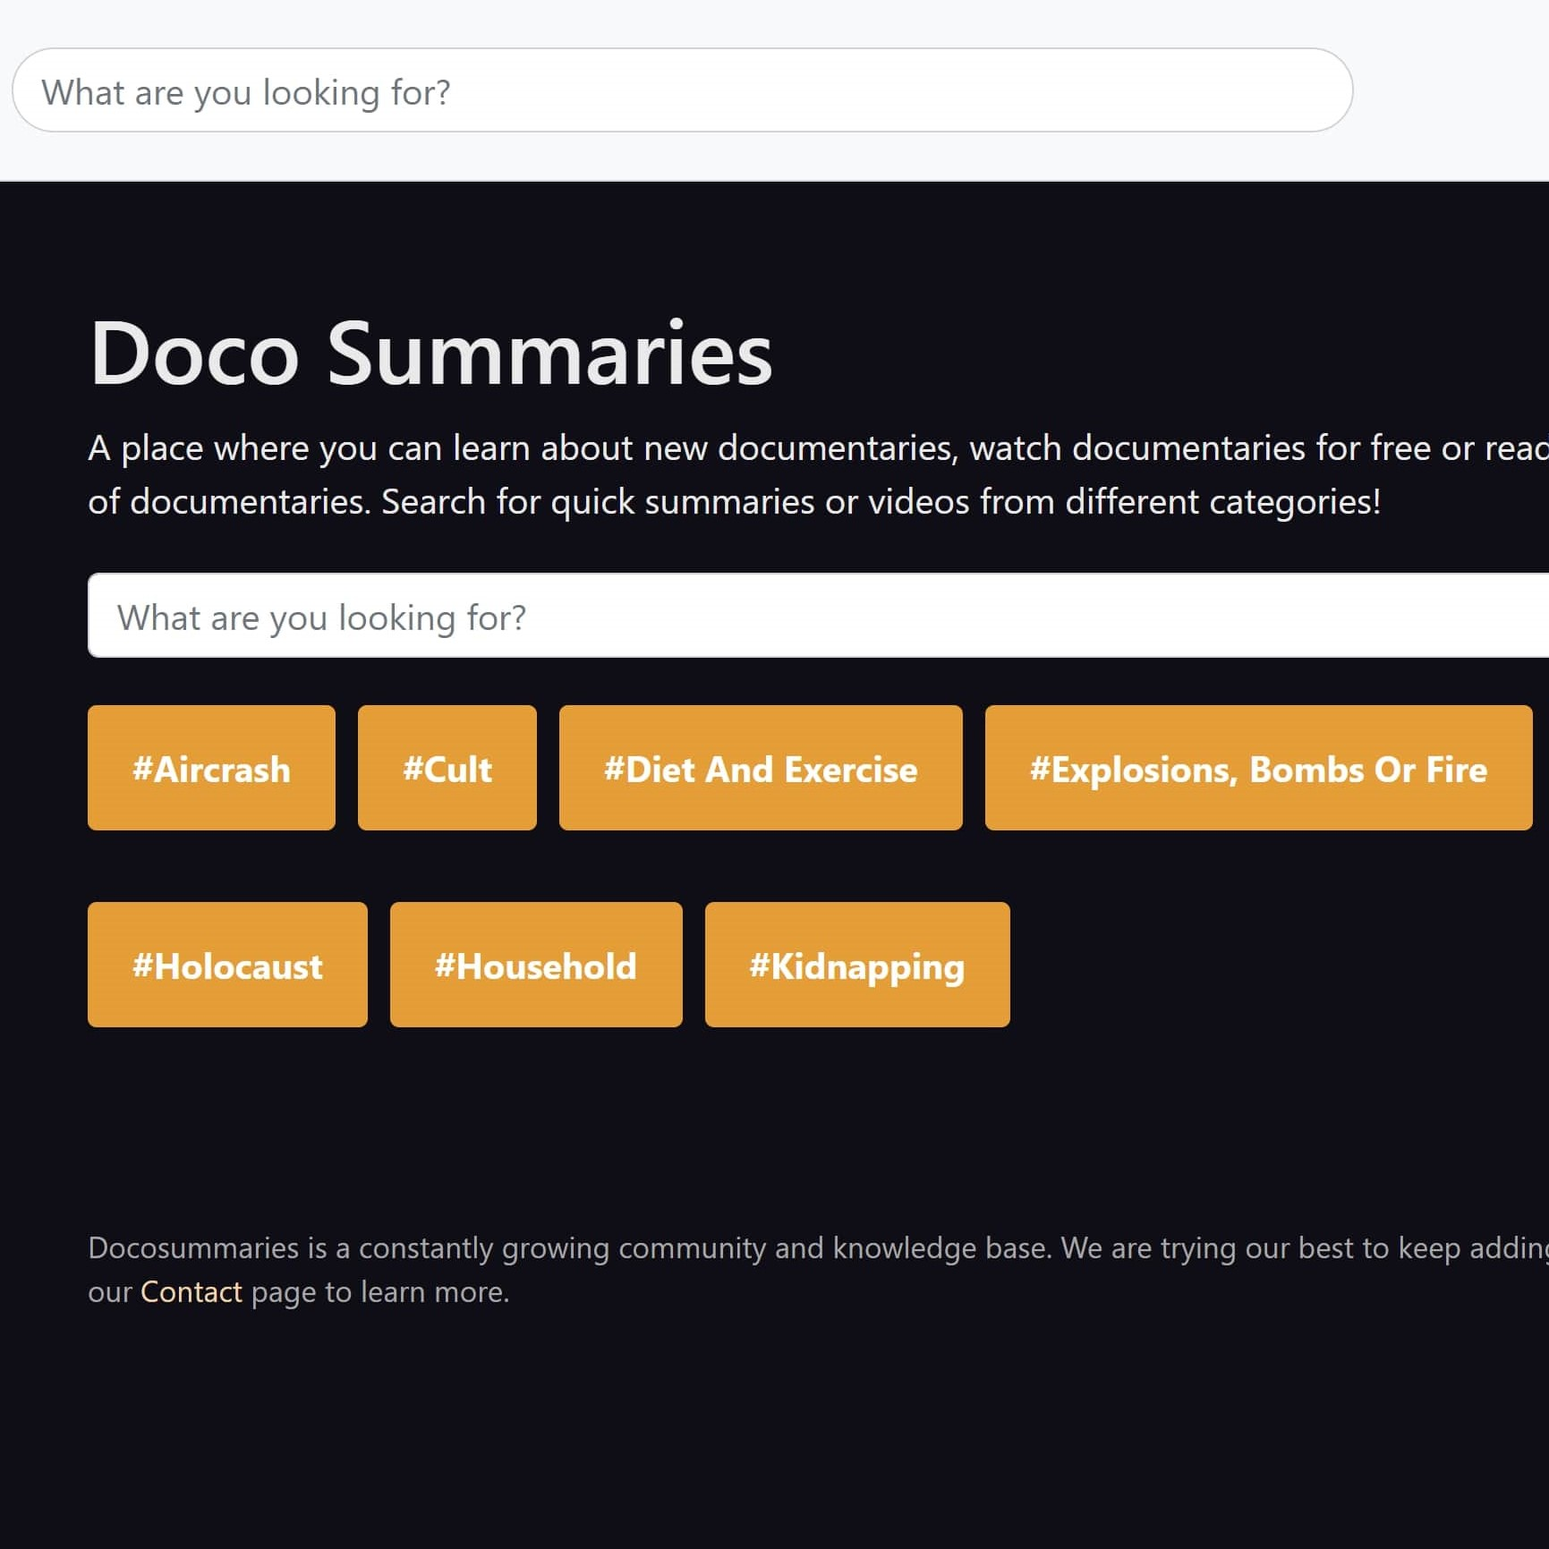
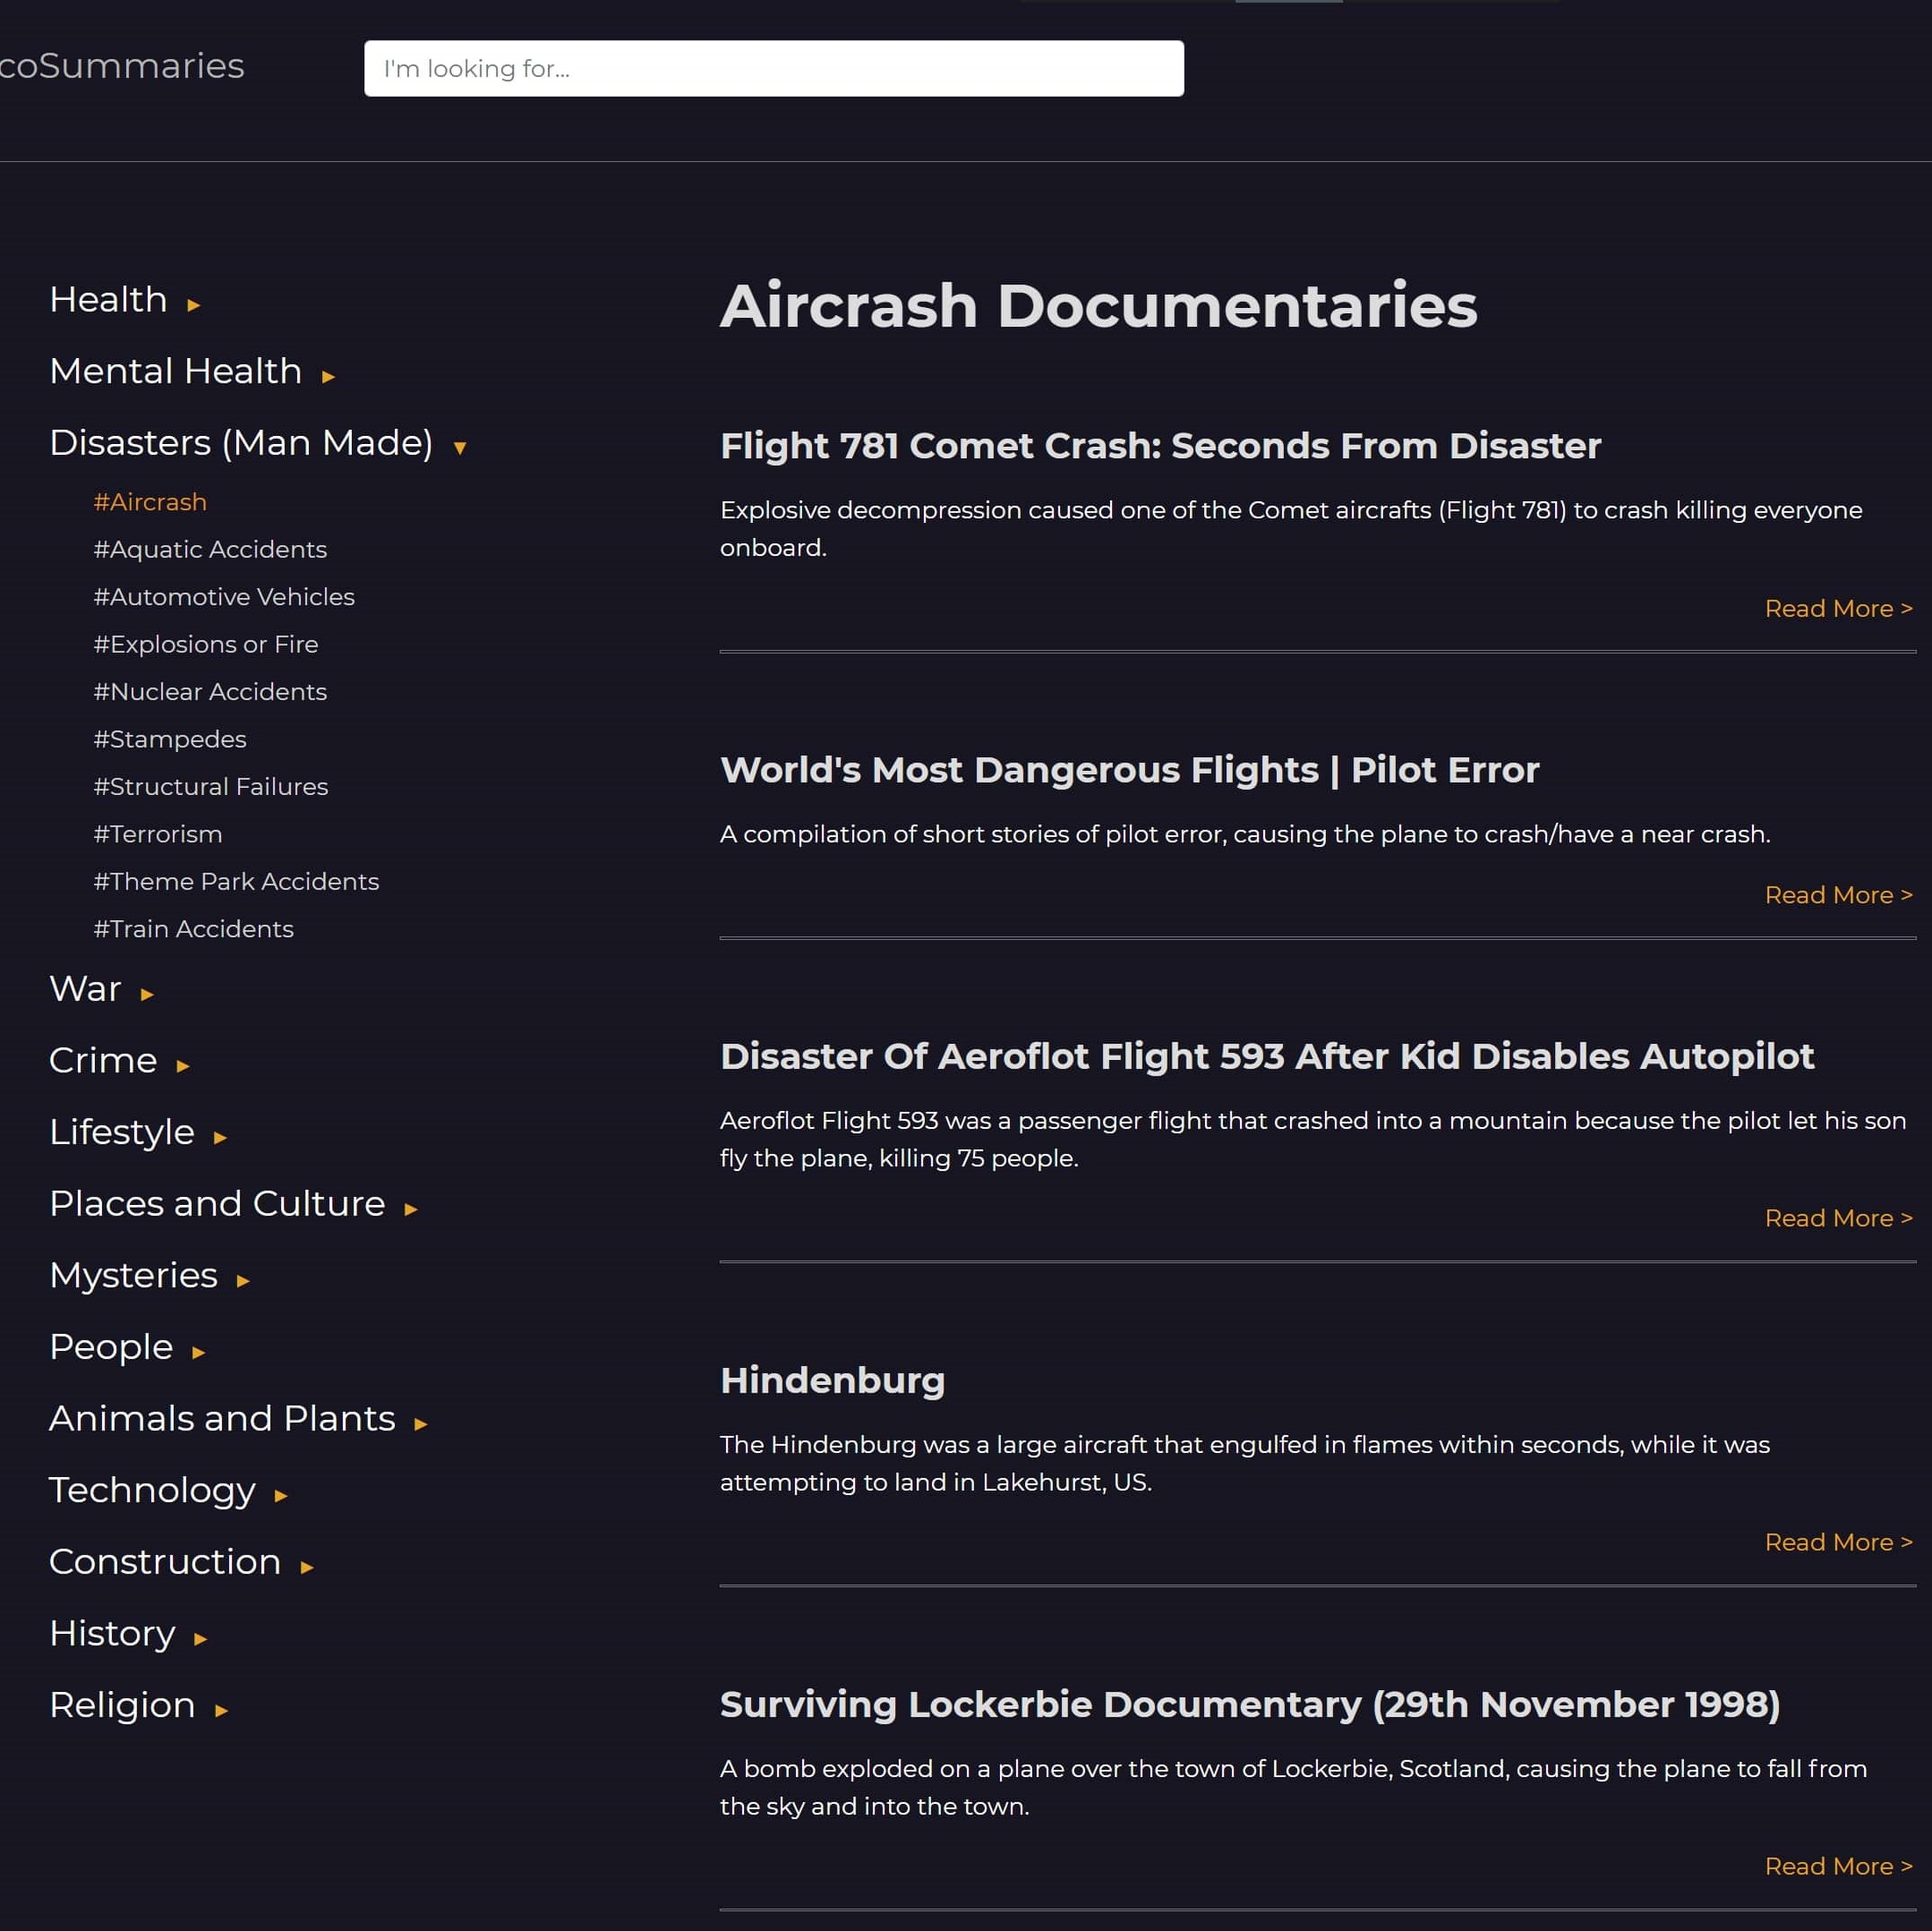
Added Netflix Clone in portfolio. Updated image for docos

diff --git a/src/assets/portfolio/articles/docosummaries.md b/src/assets/portfolio/articles/docosummaries.md
@@ -15,7 +15,7 @@ Docosummaries is a place where you can learn about new documentaries, read plot 
 
 <!-- ----------- Image ----------- --> 
 <div class="image-container">
-	<img src="./assets/portfolio/images/docosummaries/1.jpg" loading="lazy" alt="image" class="image-75">
+	<img src="./assets/portfolio/images/docosummaries/2.jpg" loading="lazy" alt="image" class="image-75">
 </div>
 <!-- ----------------------------- -->
   
@@ -38,7 +38,42 @@ I have compiled my own list of documentaries in one place where I tag them based
 
 <div class="pb-3"></div>
 
-At the moment this is only a proof-of-concept and the real designs have not been implemented.
+## **Design**
+
+<div class="pb-3"></div>
+
+Initially, the design of Docosummeries looked like this:
+
+<!-- ----------- Image ----------- --> 
+<div class="image-container">
+	<img src="./assets/portfolio/images/docosummaries/1.jpg" loading="lazy" alt="image" class="image-75">
+</div>
+<!-- ----------------------------- -->
+
+<div class="pb-3"></div>
+
+In the older design:
+* There were no Youtube embeds.
+* There was no sidebar where you could see the list of all Categories in a sidebar, and expand them to see all tags underneath.
+* The colour scheme/theme was not strictly followed.
+* Too many clicks. On the path to get to the documentary, there was an empty page that would just list categories, then another empty page that would just list tags (they looked indistinguishable) and it was unintuitive.
+
+<div class="pb-3"></div>
+
+<!-- ----------- Image ----------- --> 
+<div class="image-container">
+	<img src="./assets/portfolio/images/docosummaries/2.jpg" loading="lazy" alt="image" class="image-75">
+</div>
+<!-- ----------------------------- -->
+  
+<div class="pb-3"></div>
+
+The newer design was designed by <a href=" https://www.sorakhan.com/">Sora Khan</a>. He gave me the new designs using Adobe XD, and I changed the website to implement the new design. Now, it has:
+* A more dynamic way of searching for documentaries. There is a sidebar that works dynamically and fetches the documentaries the user selects in real time.
+* An infinite scroll functionlity for the list that is returned.
+* Youtube embeds when you click 'Read More.'
+* Much less clicks to get to where you would like.
+* Better organisation/clarification between what is a 'Category' and what is a 'Tag'.
 
 <div class="pb-3"></div>
 

diff --git a/src/assets/portfolio/articles/netflixClone.md b/src/assets/portfolio/articles/netflixClone.md
@@ -1,0 +1,56 @@
+<!--- ----------------- -->
+# Netflix Clone  
+<br>
+
+##### Clone • React • Firebase
+<hr>
+<br>
+<!--- ----------------- -->
+
+## **About**
+
+<div class="pb-3"></div>
+
+Following <a class="cyanLink" href="https://www.youtube.com/watch?v=XtMThy8QKqU">this</a> tutorial from Youtube, I was able to build a clone of Netflix that pulls a list of movies using The Movie Database API, and display them in the style of the Netflix Home Page. 
+The tutorial was just over 3 hours long, but I spent a few afternoons splitting up the content so I could learn the content better. 
+The Netflix Clone is hosted live using Firebase. You can visit it <a class="cyanLink" href="https://js-netflix-clone.web.app/">here</a>.
+
+<!-- ----------- Image ----------- --> 
+<div class="image-container">
+	<img src="./assets/portfolio/images/netflixClone/1.jpg" loading="lazy" alt="image" class="image-75">
+</div>
+<!-- ----------------------------- -->
+
+<div class="pb-3"></div>
+
+* <a class="cyanLink" href="https://github.com/vondreii/js-netflix-clone">View GitHub Repository</a>
+* <a class="cyanLink" href="https://js-netflix-clone.web.app/">Visit the Netflix Clone website</a>
+  
+<div class="pb-3"></div>
+
+## **Background**
+
+<div class="pb-3"></div>
+
+I wanted to learn some of the basics of React. The tutorial explained some of the key fundamentals of React and put them into practice by making an app that was fun and well-known to everyone. 
+
+<div class="pb-3"></div>
+
+## **Tech Stack**
+
+<div class="pb-3"></div>
+
+* React
+* Firebase (for Hosting)
+
+<div class="pb-3"></div>
+
+## **What I Learnt or Improved**
+
+<div class="pb-3"></div>
+
+* Basic React skills
+* How to host a website using Firebase
+* A lot of new CSS tricks
+
+<div class="pb-3"></div>
